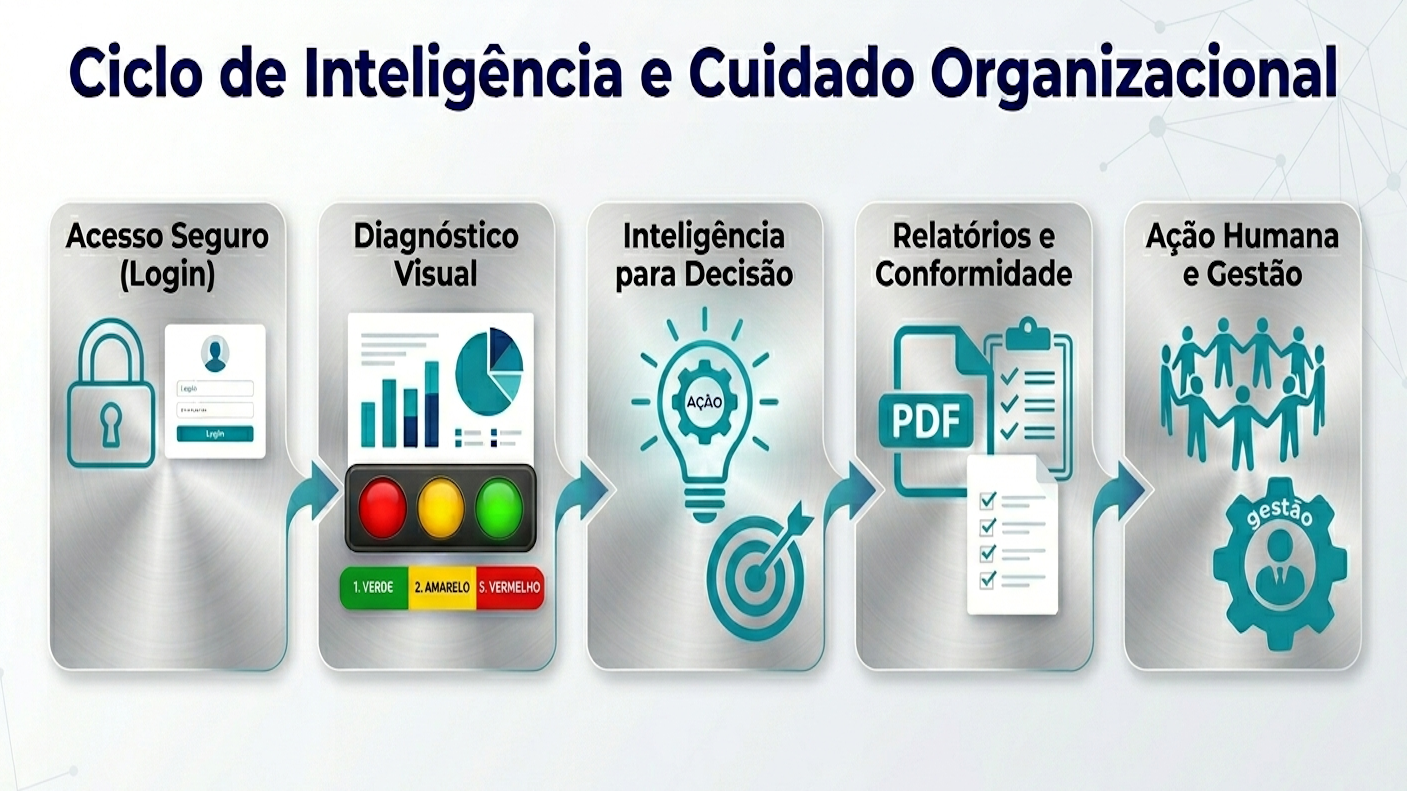
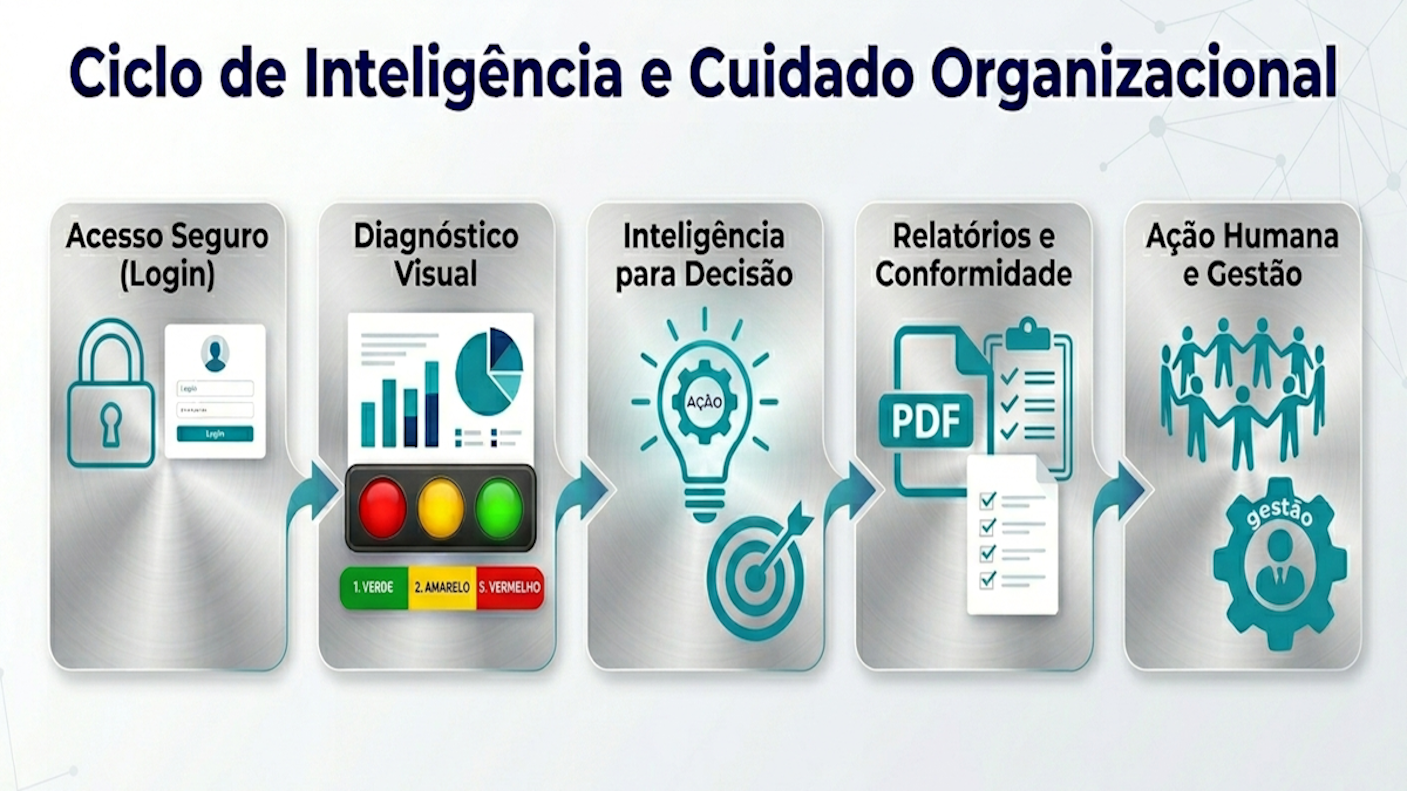
outro teste

diff --git a/app/app/page.tsx b/app/app/page.tsx
@@ -135,8 +135,7 @@ export default function AppPage() {
           <div className="aspect-video bg-surface-muted rounded-xl flex items-center justify-center text-foreground/50">
             <Link
               href="/"
-              className="flex items-center justify-center hover:opacity-90 transition-opacity"
-              suppressHydrationWarning={true}
+              className="flex items-center justify-center hover:opacity-90 transition-opacity"              
             >
               <Image
                 src="/images/alma4d_fluxo_site_semtxt.png"
@@ -145,8 +144,7 @@ export default function AppPage() {
                 height={791}
                 sizes="(max-width: 768px) 100vw, 1407px"
                 className="object-contain"
-                priority
-                suppressHydrationWarning={true}
+                priority                
               />
             </Link>
           </div>
@@ -181,7 +179,7 @@ export default function AppPage() {
             <Image
               src="/images/alma4d_resumo.png"
               alt="Infográfico Ciclo de Inteligência alma4D"
-              width={1100}
+              width={600}
               height={600}
               sizes="(max-width: 768px) 100vw, 1100px"
               className="object-contain w-full h-auto max-h-[75vh]"
